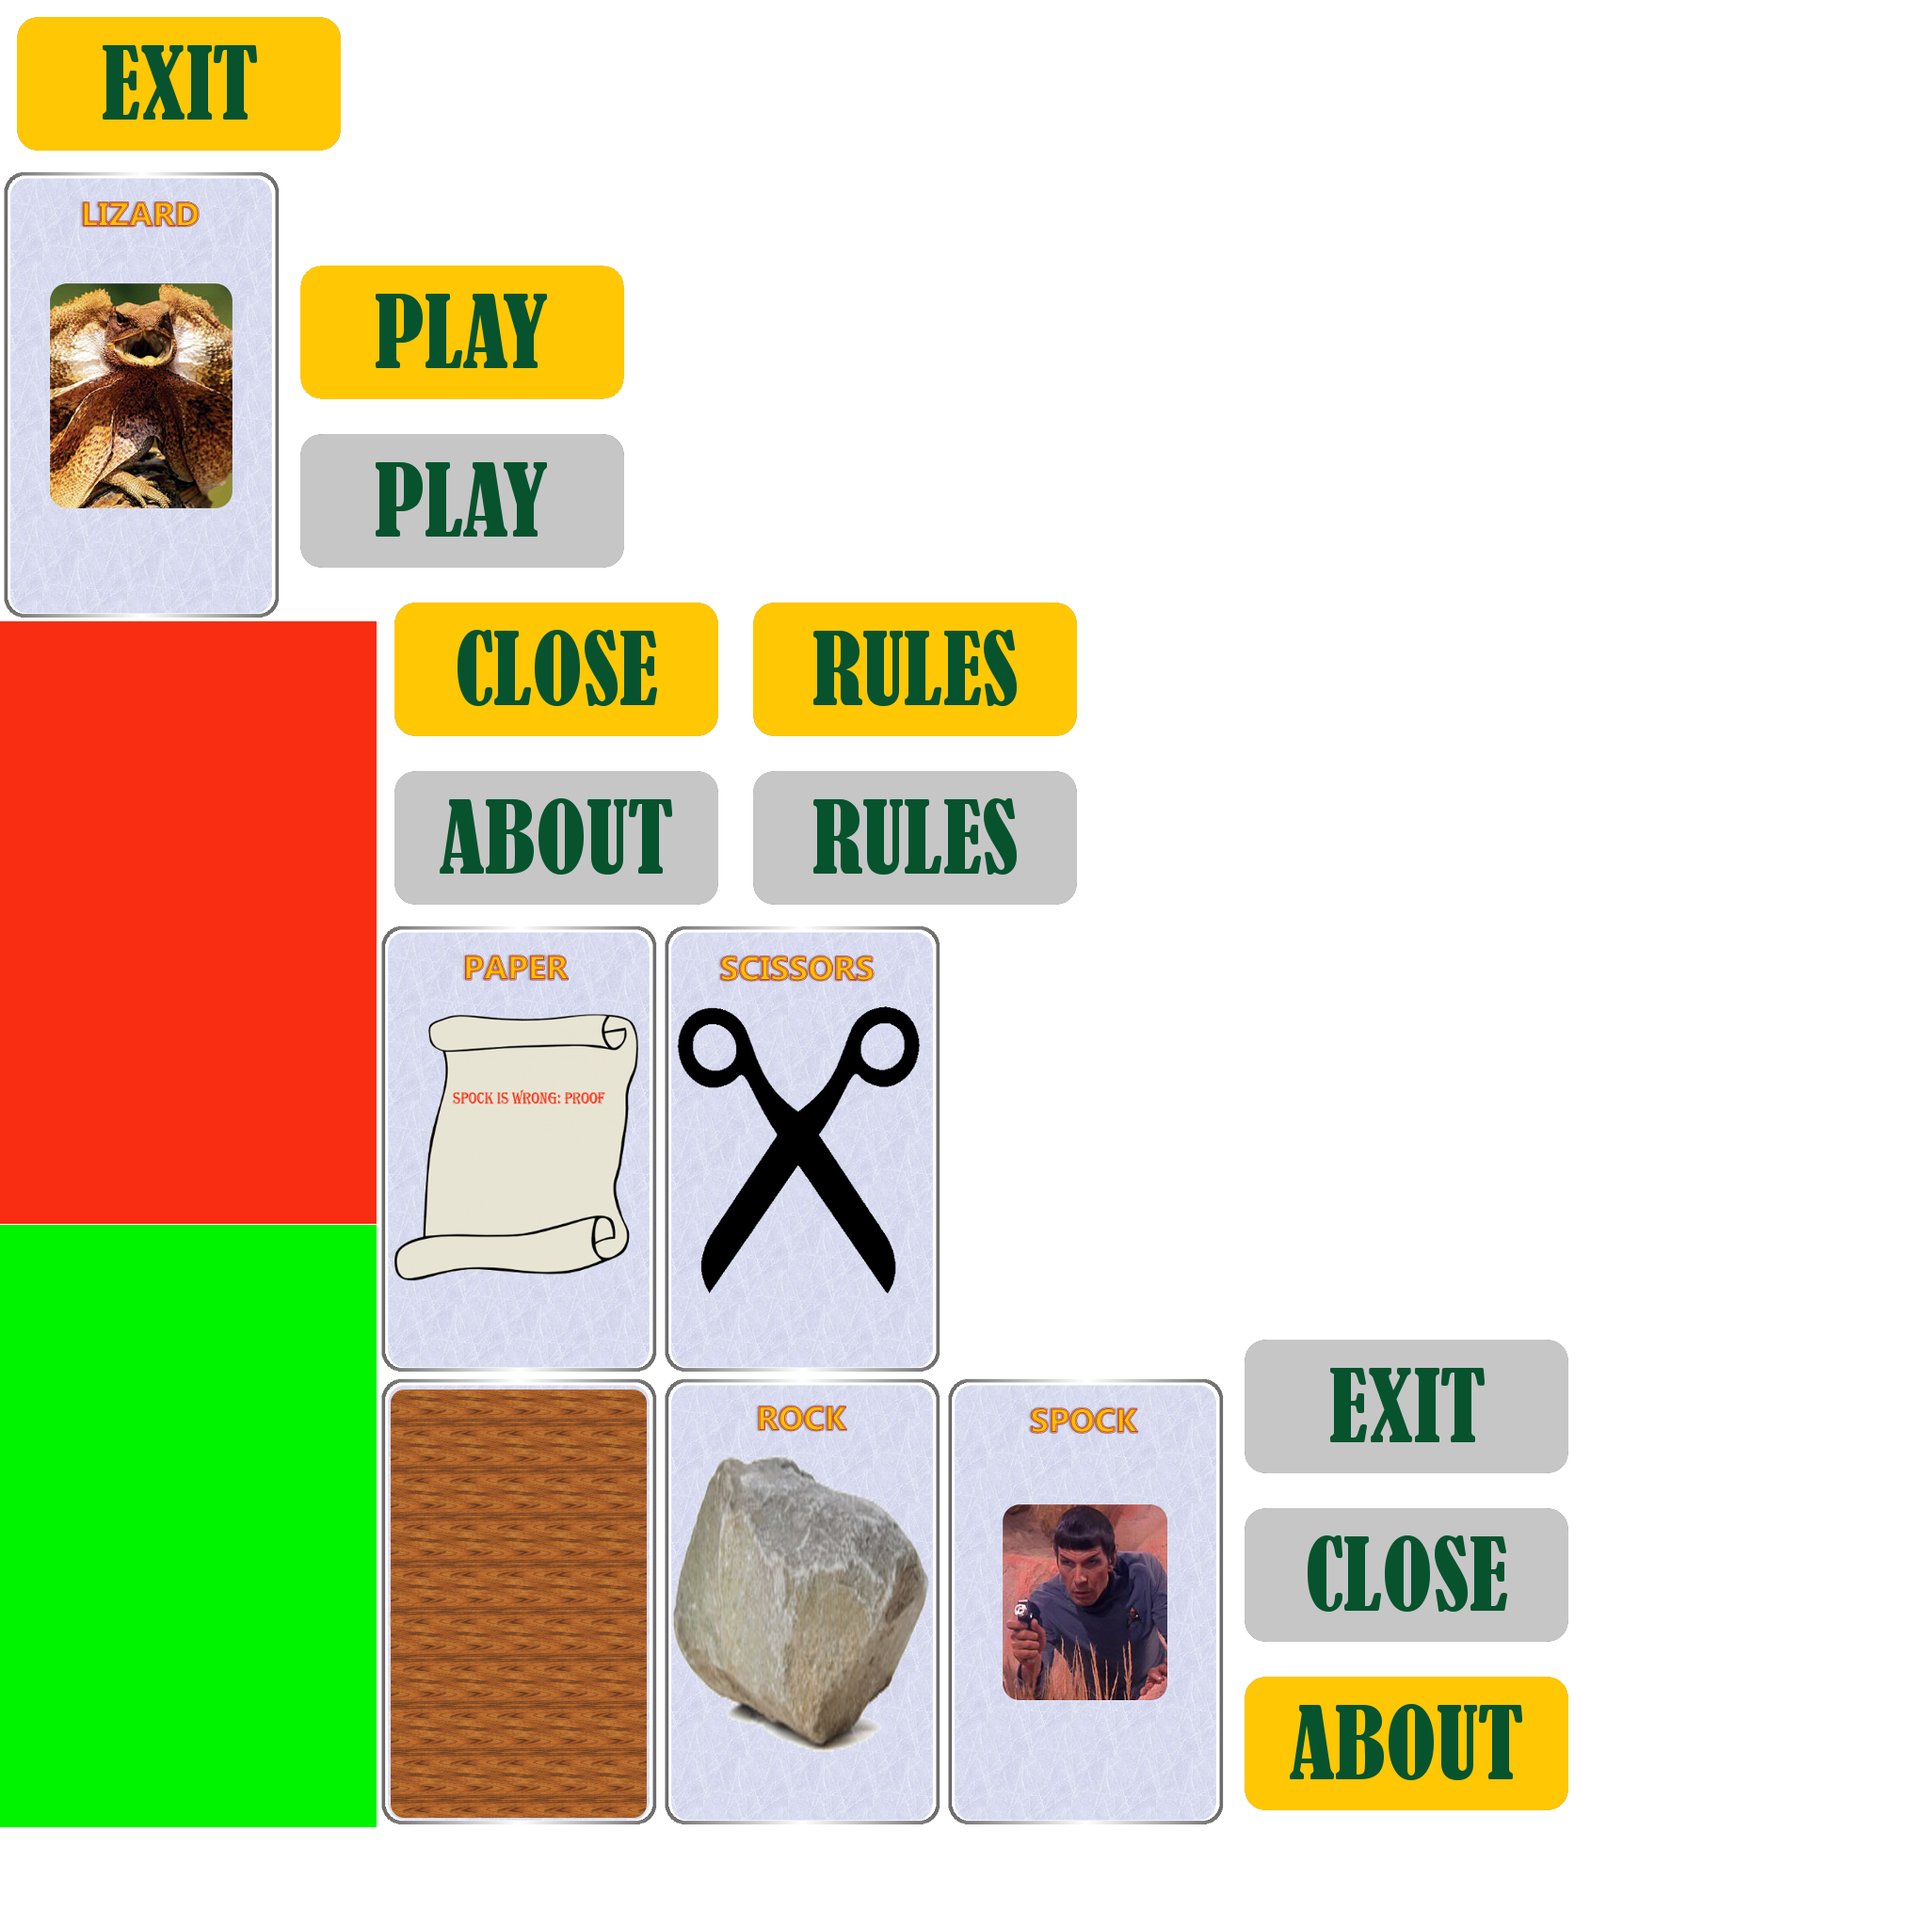
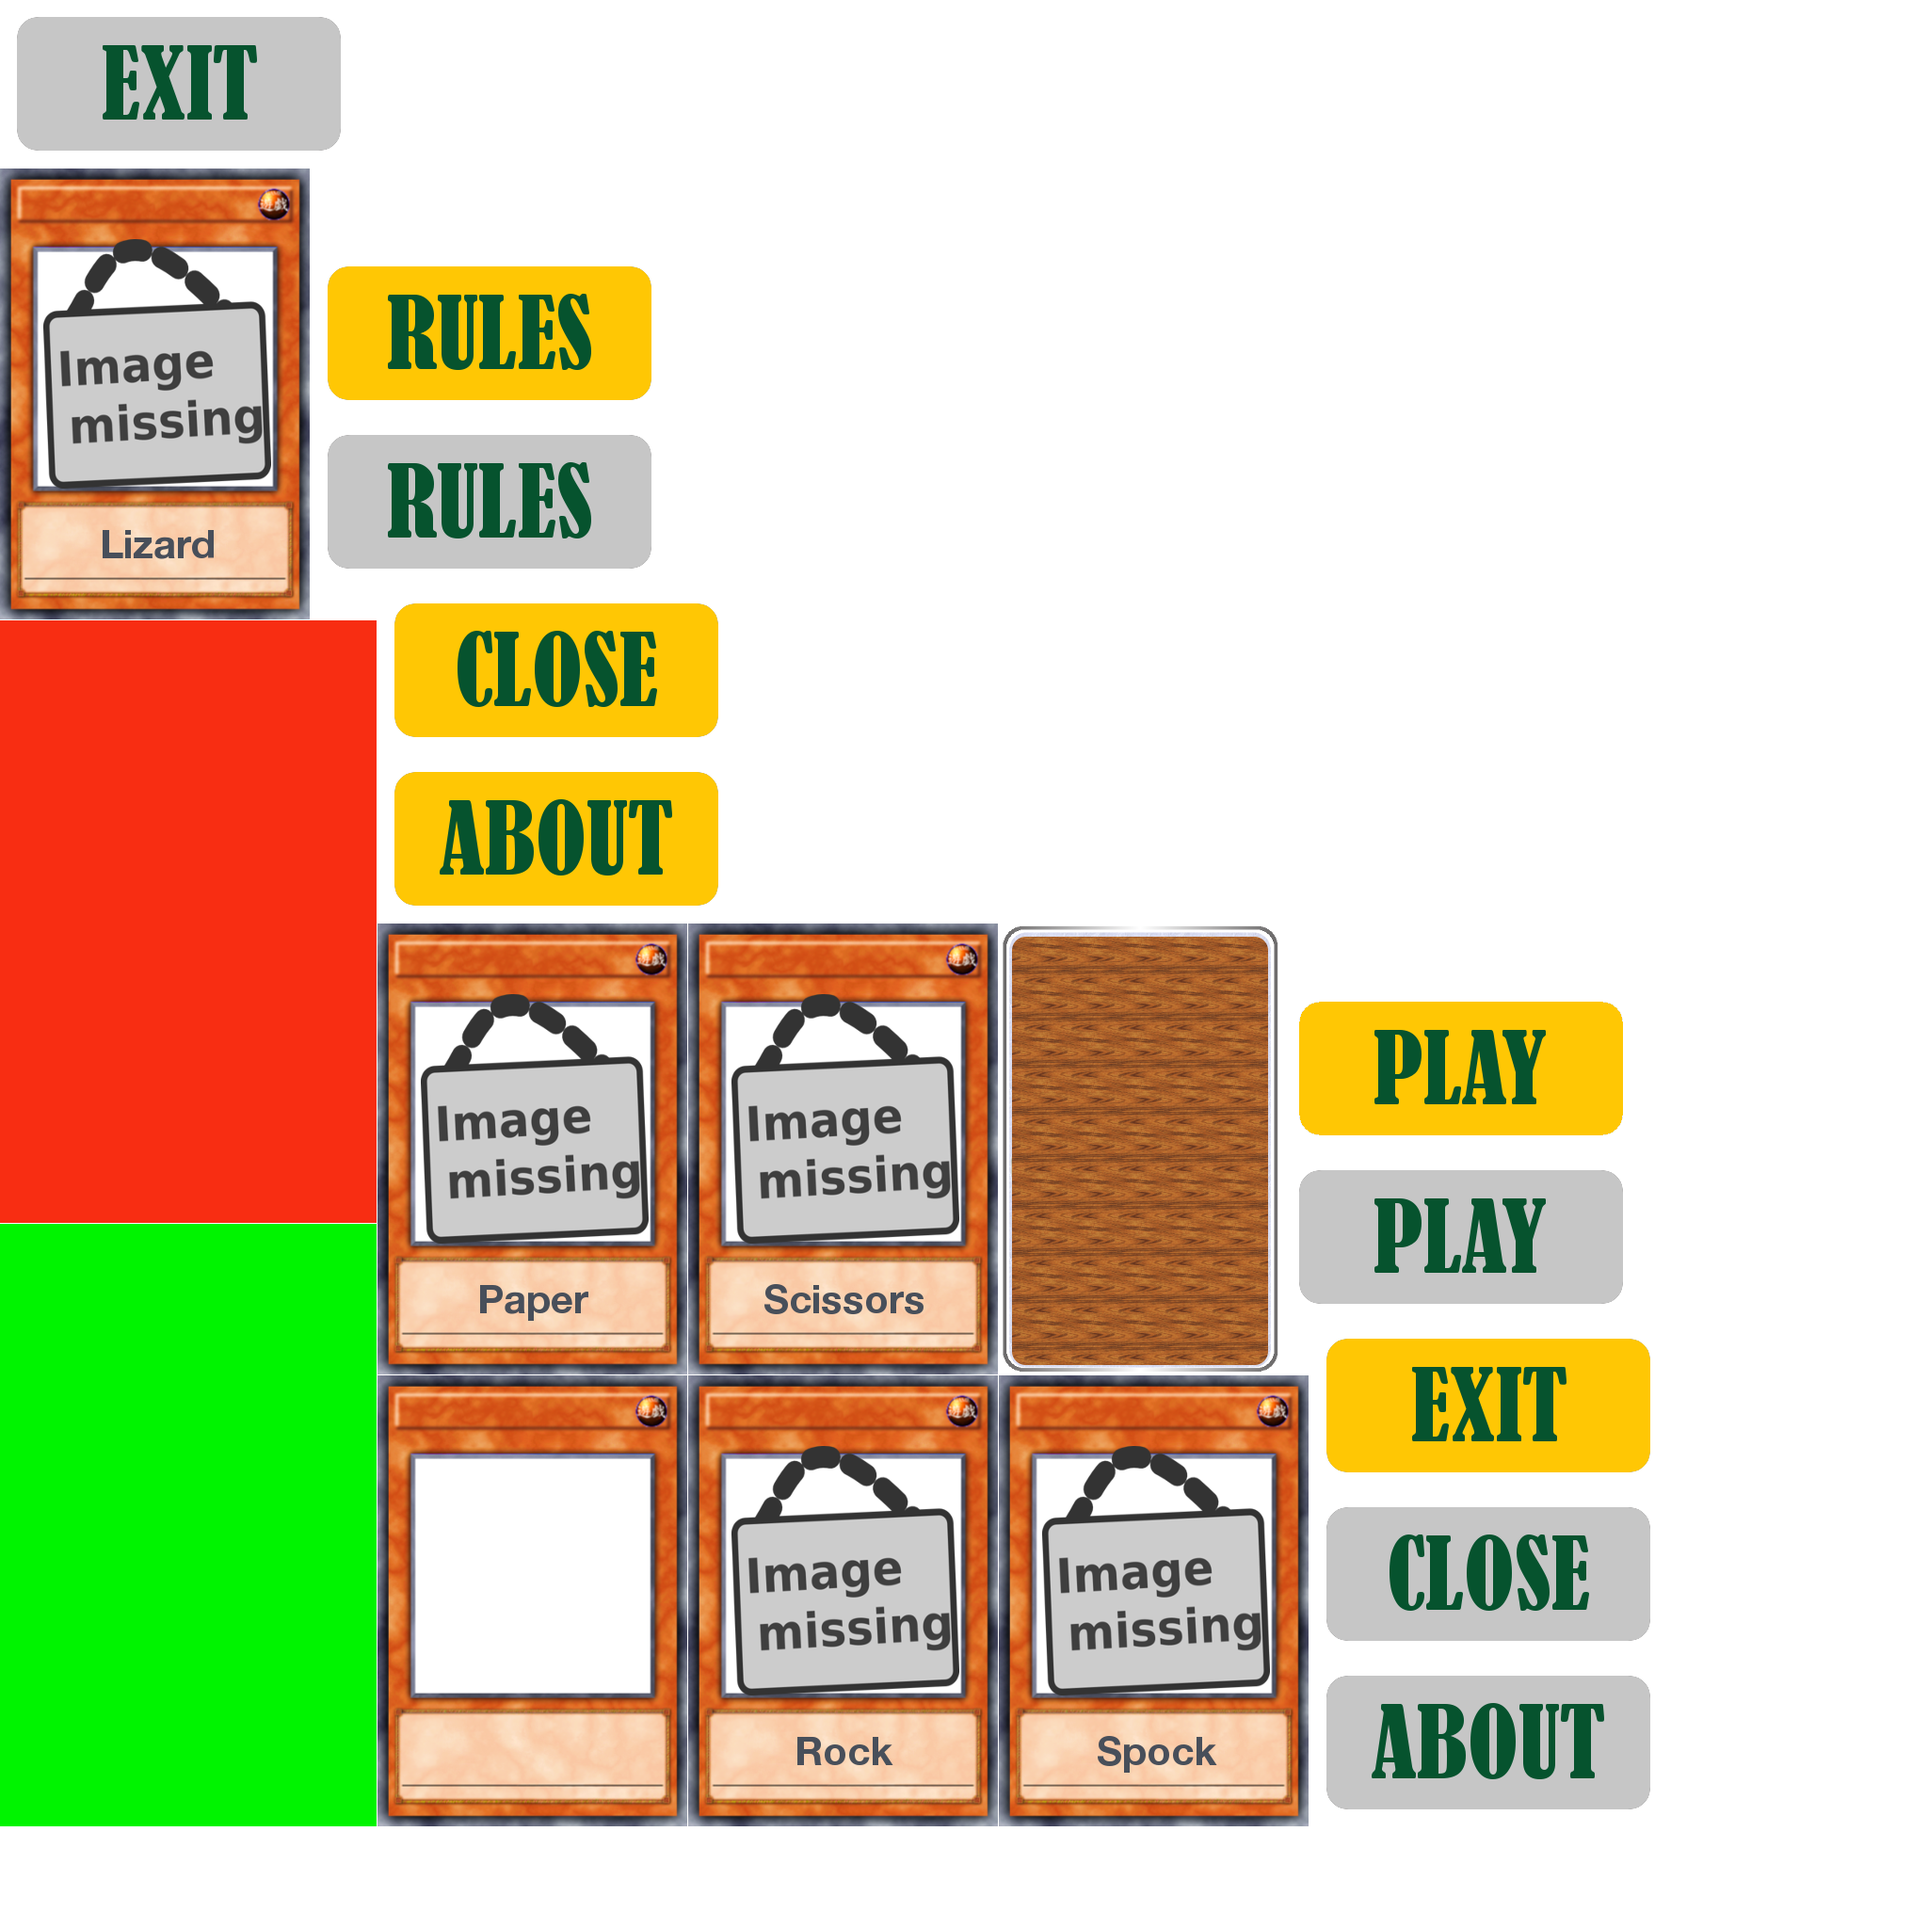
Revert to Bill's code for missing images

diff --git a/core/src/com/teamdelta/game/GameScreen.java b/core/src/com/teamdelta/game/GameScreen.java
@@ -52,30 +52,22 @@ public class GameScreen extends AbstractScreen {
 				atlas.findRegion("CLOSEBUTTONSELECTED"), new Rectangle(450, 30,
 						100, 50));
 		//Ismael added playAgainButton
+		
 		playAgainButton = new Button(atlas.findRegion("PLAYBUTTON"),
 				atlas.findRegion("PLAYBUTTONSELECTED"), new Rectangle(350, 155,
 						100, 50));
-		rockButton = new Button(atlas.findRegion("rock"),
-				atlas.findRegion("rock"), new Rectangle(50, 350, 100, 150));
-		paperButton = new Button(atlas.findRegion("paper"),
-				atlas.findRegion("paper"), new Rectangle(650, 350, 100, 150));
-		scissorsButton = new Button(atlas.findRegion("scissors"),
-				atlas.findRegion("scissors"), new Rectangle(50, 150, 100, 150));
-		lizardButton = new Button(atlas.findRegion("lizard"),
-				atlas.findRegion("lizard"), new Rectangle(650, 150, 100, 150));
-		spockButton = new Button(atlas.findRegion("spock"),
-				atlas.findRegion("spock"), new Rectangle(350, 275, 100, 150));
-
-//		rockButton = new Button(atlas.findRegion("missingRock"),
-//				atlas.findRegion("missingRock"), new Rectangle(50, 350, 100, 150));
-//		paperButton = new Button(atlas.findRegion("missingPaper"),
-//				atlas.findRegion("missingPaper"), new Rectangle(650, 350, 100, 150));
-//		scissorsButton = new Button(atlas.findRegion("missingScissors"),
-//				atlas.findRegion("missingScissors"), new Rectangle(50, 150, 100, 150));
-//		lizardButton = new Button(atlas.findRegion("missingLizard"),
-//				atlas.findRegion("missingLizard"), new Rectangle(650, 150, 100, 150));
-//		spockButton = new Button(atlas.findRegion("missingSpock"),
-//				atlas.findRegion("missingSpock"), new Rectangle(350, 275, 100, 150));
+		
+		//Bill added placeholders
+		rockButton = new Button(atlas.findRegion("rock_missing"),
+				atlas.findRegion("rock_missing"), new Rectangle(50, 350, 100, 150));
+		paperButton = new Button(atlas.findRegion("paper_missing"),
+				atlas.findRegion("paper_missing"), new Rectangle(650, 350, 100, 150));
+		scissorsButton = new Button(atlas.findRegion("scissors_missing"),
+				atlas.findRegion("scissors_missing"), new Rectangle(50, 150, 100, 150));
+		lizardButton = new Button(atlas.findRegion("lizard_missing"),
+				atlas.findRegion("lizard_missing"), new Rectangle(650, 150, 100, 150));
+		spockButton = new Button(atlas.findRegion("spock_missing"),
+				atlas.findRegion("spock_missing"), new Rectangle(350, 275, 100, 150));
 	}
 
 	@Override
